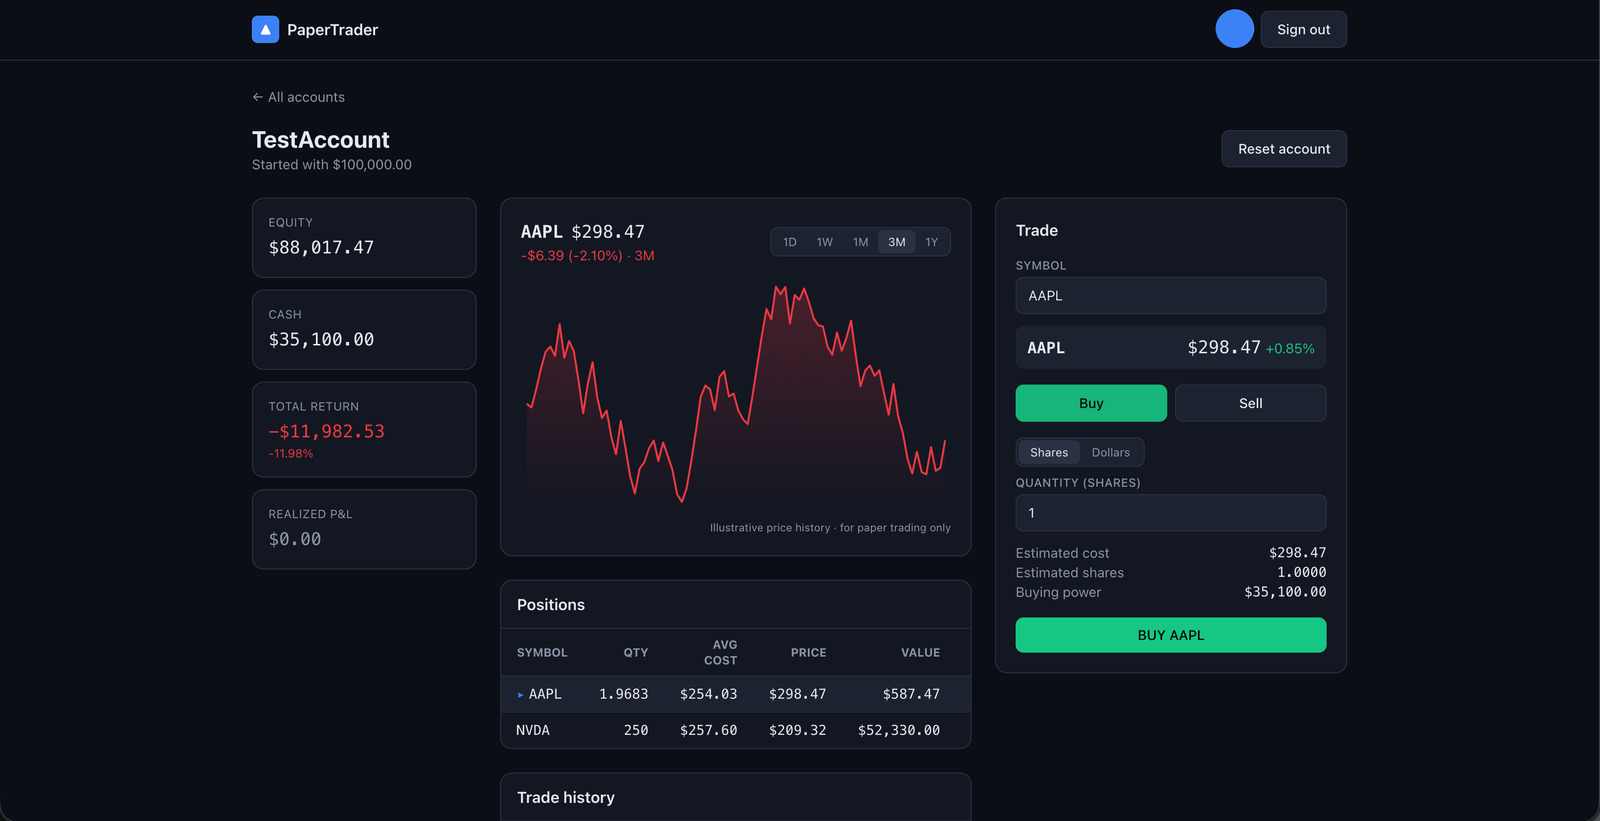
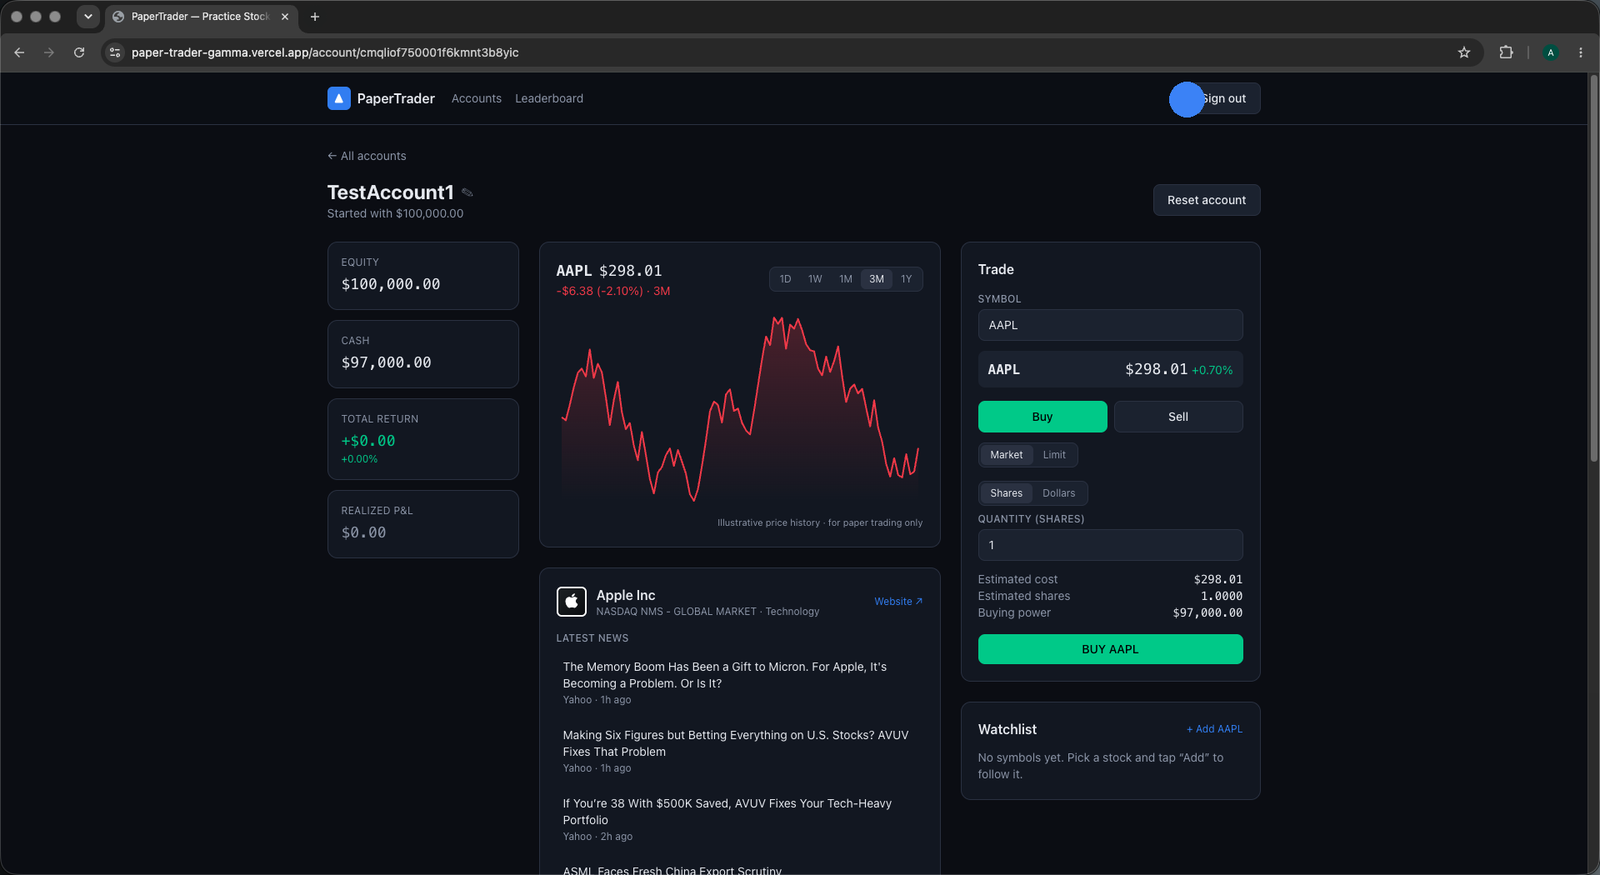
Refresh README screenshots with current UI
Update dashboard and trading-view screenshots (redacted) to show the
market overview, account comparison, chart, company news, order types,
and watchlist.

diff --git a/README.md b/README.md
@@ -15,11 +15,11 @@ Built as a portfolio piece with **Next.js 14 (App Router)**, **TypeScript**,
 
 ## Screenshots
 
-**Manage up to 20 paper trading accounts**
+**Dashboard — live market overview and your accounts ranked by return**
 
 ![Accounts dashboard](docs/screenshots/dashboard.png)
 
-**Trade live US stocks with charts, positions & full P&L**
+**Trading view — live chart, company news, market/limit orders, and watchlist**
 
 ![Trading view](docs/screenshots/account.png)
 